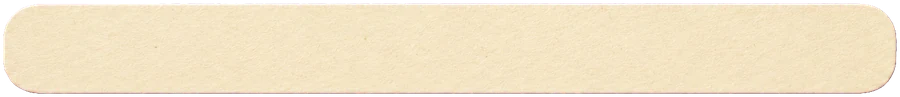
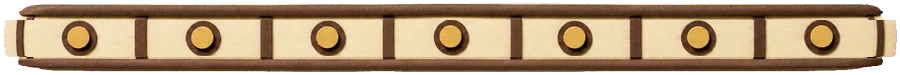
완두콩 공주: 안내 음성 중에도 바로 눌리게(T.ask), 매트리스를 테두리·누빔·단추가 있는 그림으로
- 엔진 T.ask(안내, 조작): 대상을 먼저 열고 안내를 읽는다. 예전 say→tap 은 안내 동안(busy)과 뒤 쉼 0.7초 동안 누름을 버렸다. 안내 도중 누르면 안내를 멈춘다. 자동 재생·검증은 예전 순서. 세로에서 카메라가 화자로 가지 않게 연출 없이 읽는다
- 엔진: 말풍선 pointer-events none, 손가락 위치를 data-hand 조각으로 고를 수 있게
- 완두콩 공주: 톡 대상이 아닌 배우·효과 층은 누름을 받지 않음(세로 5장 왕비가 침대 구역을 덮던 것), 5장 들썩이는 더미도 톡 자리, 4장 세로 누르는 자리 짧은 변 90px
- 매트리스 3장 다시 생성(갈색 테두리 띠·누빔선·둥근 단추), 민짜 몸통 줄만 빼서 12:1 로 맞춤(단추가 눌리지 않게)

Claude-Session: https://claude.ai/code/session_015D7fGjm4nVvpfW8sbSdtTy

diff --git a/tales/princess_pea/princess_pea.js b/tales/princess_pea/princess_pea.js
@@ -16,7 +16,9 @@
     pp_prop_pea: 1.0, pp_prop_pillow: 2.0, pp_prop_ladder: .20, pp_prop_boat: 1.1, pp_prop_far_lands: 9.0, pp_prop_cloud: 2.0, pp_prop_lightning: .35,
     pp_prop_door_closed: .55, pp_prop_door_open: 1.4, pp_prop_case: .5,
   };
-  /* 상자를 폭·높이 둘 다 고정(preload 로 덮어쓰지 않음) */
+  /* 상자를 폭·높이 둘 다 고정(preload 로 덮어쓰지 않음).
+     매트리스(2026-10-22 다시 그림): 갈색 테두리 띠·누빔선·둥근 단추가 있는 옆모습. 받은 그림은 5.8:1 이라 240×20 에 넣으면 단추가 반으로 눌린다 →
+     민짜 몸통 줄만 빼서 12:1(900×75)로 만든 webp 를 쓴다(단추·테두리 띠는 그대로, 원본 png 는 assets/raw/_work/pp_mattress_try1) */
   const FIXED_ASP = { pp_prop_mattress_gold: 12, pp_prop_mattress_cream: 12, pp_prop_mattress_persimmon: 12, pp_prop_duvet: 12.2, pp_prop_bed_board: 8.7 };
   /* 높이 — 같은 부위(얼굴 폭) 크기가 같아지도록 정한 값. 그림이 오면 얼굴 폭을 재서 고친다(SPEC §2-2) */
   const HT = {
@@ -163,6 +165,7 @@
       });
     });
     a.want = 'left';
+    a.pos.style.pointerEvents = 'none';   // 톡 대상이 아닌 배우·소품이 대상 위를 덮어 누름을 가로채지 않게(2026-10-22). 대상은 hitBox/tapable 로 연다
     const place0 = a.place;      // 자리표시의 글자는 뒤집히지 않게 거꾸로 되돌린다
     a.place = (nx, ny) => { place0(nx, ny); a.pos.querySelectorAll('.phl').forEach(t => t.setAttribute('transform', `translate(${t.dataset.cx},${t.dataset.cy}) scale(${a.flip},1)`)); };
     a.turn = d => { a.want = d; const n = looks[a.cur].nat; a.face(n === 'front' || n === d ? 'left' : 'right'); };
@@ -191,7 +194,7 @@
   /* 누르는 자리 넓히기: 그림 뒤에 투명 사각을 깔고 a.hit = a.pos */
   function hitBox(T, a, w = 100, h = 100) {
     const r = T.el('rect', { x: -w / 2, y: -h, width: w, height: h, fill: '#000', 'fill-opacity': 0 }, a.pos);
-    a.pos.insertBefore(r, a.body); a.hit = a.pos; return a;
+    a.pos.insertBefore(r, a.body); a.hit = a.pos; a.pos.style.pointerEvents = 'auto'; return a;
   }
 
   /* ---- 세트 묶음 rig (탑 꼭대기를 볼 때 위로 보이게 아래로 내린다) ---- */
@@ -232,6 +235,7 @@
     const say = async text => { await T.say(text); await sleep(GAP); };
     const vo = k => { const u = Narrator.voiceLine(k); return u && AudioFX.voice(u); };   // 말풍선 없는 소리(수 세기 n1~n20)
     const scene = key => { T.clear(); bgImage(T, key); newRig(T); camSnap(500, 280, 1); };
+    if (T.fx) T.fx.style.pointerEvents = 'none';  // 빗줄기·꽃잎·'뚝뚝' 같은 효과 조각이 톡 대상을 덮지 않게
     const P = T.viewWidth() < 990;                 // 세로 화면(보이는 폭 약 260)
     const X = (l, p) => (P ? p : l);
     const follow = (x, ms = 700) => (P ? T.camTo(x, 280, 1, ms) : Promise.resolve());
@@ -263,7 +267,7 @@
     const doorC = prop(T, 'pp_prop_door_closed', HT.pp_prop_door_closed), doorO = prop(T, 'pp_prop_door_open', HT.pp_prop_door_open), kase = prop(T, 'pp_prop_case', HT.pp_prop_case);
     const ALL = [pea, prince, queen, king, ...mats, ...pile, ...duvs, peaB, peaC, peaM, matC, pillow, board, ladder, boat, lands, cloudA, cloudB, bolt, doorC, doorO, kase];
     ALL.forEach(hide);
-    hitBox(T, boat, 100, 100); hitBox(T, peaC, 100, 100); hitBox(T, pillow, 100, 70); hitBox(T, matC, 250, 80); hitBox(T, kase, 100, 150);
+    hitBox(T, boat, 100, 100); hitBox(T, peaC, 100, 100); hitBox(T, pillow, 100, 100); hitBox(T, matC, 250, 100); hitBox(T, kase, 100, 150);
     T.director({ cast: { pea, prince, queen, king }, noFace: ['pea', 'prince', 'queen', 'king'] });
 
     /* 탑 한 채를 rig 안에 세운다(6·7·8장) */
@@ -286,8 +290,7 @@
     if (P) camSnap(770, 280, 1);
     await T.curtain(true);
     await say('옛날에 진짜 공주와 결혼하고 싶은 왕자가 있었어요.');
-    await say('배를 톡 눌러 봐요.');
-    await T.tap(boat.hit, { prompt: '배를 톡 눌러 봐요.' });
+    await T.ask('배를 톡 눌러 봐요.', () => T.tap(boat.hit, { prompt: '배를 톡 눌러 봐요.' }));
     sfx(T, 'swish', .35); T.pop(754, 200, tr('출렁출렁'));
     {
       const t = boat.move(900, 300, SAIL, 'linear');
@@ -345,9 +348,9 @@
       if (P) camSnap(630, 280, 1);
     }, doorC.pos);
     T.pop(pea.x - 85, FL - 40, tr('뚝뚝'), '#1F2A56');
-    await say('성문을 톡 눌러 봐요.');
-    bob(doorC.pos);
-    await T.tap(doorC.pos, { prompt: '성문을 톡 눌러 봐요.' });
+    bob(doorC.pos); doorC.pos.style.pointerEvents = 'auto';
+    await T.ask('성문을 톡 눌러 봐요.', () => T.tap(doorC.pos, { prompt: '성문을 톡 눌러 봐요.' }));
+    doorC.pos.style.pointerEvents = 'none';
     sfx(T, 'creak', .5); T.pop(700, 150, tr('끼익'));
     fadeOut(T, doorC, 300); fadeIn(doorO, 300);
     fadeIn(queen, 400); fadeIn(king, 400); glow(king, 1200);
@@ -366,26 +369,24 @@
       scene('pp_bg_guest_day');
       put(T, board, X(820, 760), FL); inRig(board);
       put(T, queen, X(690, 620), FL, { look: 'place', to: 'right' });
-      if (P) { put(T, peaC, 500, 350); put(T, pillow, 500, 420); put(T, matC, 500, FL); }
+      if (P) { put(T, peaC, 500, 300); put(T, pillow, 500, 400); put(T, matC, 500, FL); }   // 세로: 누르는 자리 100씩(화면 90px) 겹치지 않게
       else { put(T, matC, 180, FL); put(T, pillow, 360, FL); put(T, peaC, 470, FL); }
       if (P) camSnap(500, 280, 1);
     }, peaC.pos);
     await say('왕비님은 손님방에 완두콩 한 알, 베개, 매트리스 한 장을 가져왔어요.');
-    await say('셋 중에서 제일 작은 것은 뭘까요? 눌러 봐요.');
-    await T.choose([
+    await T.ask('셋 중에서 제일 작은 것은 뭘까요? 눌러 봐요.', () => T.choose([
       { el: peaC.hit, ok: true },
       { el: pillow.hit, ok: false, onWrong: wrongSay(pillow, '그건 베개예요. 더 작은 걸 찾아봐요.') },
       { el: matC.hit, ok: false, onWrong: wrongSay(matC, '그건 매트리스예요. 더 작은 걸 찾아봐요.') },
-    ], { prompt: '셋 중에서 제일 작은 것은 뭘까요? 눌러 봐요.' });
+    ], { prompt: '셋 중에서 제일 작은 것은 뭘까요? 눌러 봐요.' }));
     reward(peaC); T.pop(peaC.x, peaC.y - 70, tr('반짝!'));
     await say('맞아요, 완두콩이 제일 작아요!');
     await sleep(1400);
-    await say('그럼 제일 큰 것은 뭘까요? 눌러 봐요.');
-    await T.choose([
+    await T.ask('그럼 제일 큰 것은 뭘까요? 눌러 봐요.', () => T.choose([
       { el: matC.hit, ok: true },
       { el: peaC.hit, ok: false, onWrong: wrongSay(peaC, '그건 완두콩이에요. 더 큰 걸 찾아봐요.') },
       { el: pillow.hit, ok: false, onWrong: wrongSay(pillow, '그건 베개예요. 더 큰 걸 찾아봐요.') },
-    ], { prompt: '그럼 제일 큰 것은 뭘까요? 눌러 봐요.' });
+    ], { prompt: '그럼 제일 큰 것은 뭘까요? 눌러 봐요.' }));
     reward(matC, 1200, 10); T.pop(matC.x, matC.y - 60, tr('반짝!'));
     await say('맞아요, 매트리스가 제일 커요!');
     follow(X(700, 700));
@@ -412,12 +413,14 @@
       put(T, peaB, TX - 60, BOARD_TOP + 4); inRig(peaB);
       pile.forEach((p, k) => put(T, p, PILE_X, FL - k * MAT_H));
       put(T, queen, X(350, 400), FL, { look: 'lift' });
-      bedHit = T.el('rect', { x: TX - 125, y: BOARD_TOP - 230, width: 250, height: 260, fill: '#000', 'fill-opacity': 0 }, rig);
+      bedHit = T.el('g', {}, rig);
+      const bedR = T.el('rect', { x: TX - 125, y: BOARD_TOP - 230, width: 250, height: 260, fill: '#000', 'fill-opacity': 0 }, bedHit);
+      const pileR = T.el('rect', { x: PILE_X - 130, y: FL - 5 * MAT_H - 60, width: 260, height: 5 * MAT_H + 60, fill: '#000', 'fill-opacity': 0 }, bedHit);   // 들썩이는 더미(5장) 자리
+      (P ? bedR : pileR).dataset.hand = '1';
       if (P) camSnap(TX, 280, 1);
     }, board.pos);
-    await say('완두콩 위에 매트리스를 쌓아 볼까? 몇 장일까요? 톡 눌러 봐요.');
     bob(pile[4].pos);
-    await T.tap(bedHit, { prompt: '완두콩 위에 매트리스를 쌓아 볼까? 몇 장일까요? 톡 눌러 봐요.' });
+    await T.ask('완두콩 위에 매트리스를 쌓아 볼까? 몇 장일까요? 톡 눌러 봐요.', () => T.tap(bedHit, { prompt: '완두콩 위에 매트리스를 쌓아 볼까? 몇 장일까요? 톡 눌러 봐요.' }));
     const stack = async (from, to, gap) => {
       for (let i = from; i < to; i++) {
         const m = mats[i];
@@ -430,9 +433,8 @@
       }
     };
     await stack(0, 10, COUNT_A);
-    await say('열! 아직 더 있어요. 한 번 더 톡!');
     bob(pile[4].pos);
-    await T.tap(bedHit, { prompt: '열! 아직 더 있어요. 한 번 더 톡!' });
+    await T.ask('열! 아직 더 있어요. 한 번 더 톡!', () => T.tap(bedHit, { prompt: '열! 아직 더 있어요. 한 번 더 톡!' }));
     await stack(10, 20, COUNT_B);
     await sleep(400);
     await say('스물! 매트리스가 스무 장이에요.');
@@ -460,18 +462,16 @@
     const showZones = () => [zTop, zBot].forEach(z => { z.animate([{ opacity: 0 }, { opacity: .22 }], { duration: 400, fill: 'forwards' }); });
     const hideZones = async () => { await Promise.all([zTop, zBot].map(z => T.anim(z, [{ opacity: .22 }, { opacity: 0 }], 300))); };
     showZones();
-    await say('완두콩은 어디 있을까요? 탑의 위? 아래?');
-    await T.choose([
+    await T.ask('완두콩은 어디 있을까요? 탑의 위? 아래?', () => T.choose([
       { el: zBot, ok: true },
       { el: zTop, ok: false, onWrong: async () => { await wiggleEl(T, zTop); await say('거긴 탑의 위예요. 완두콩은 맨 아래에 있어요. 아래를 눌러 봐요.'); } },
-    ], { prompt: '완두콩은 어디 있을까요? 탑의 위? 아래?' });
+    ], { prompt: '완두콩은 어디 있을까요? 탑의 위? 아래?' }));
     glow(peaB, 1500); peaB.hop(10, 360); sparkleSfx(T); T.pop(TX, 420, tr('반짝!'));
     await say('맞아요! 완두콩은 맨 아래에 있어요.'); await sleep(1200);
-    await say('공주님은 어디서 잘까요? 위? 아래?');
-    await T.choose([
+    await T.ask('공주님은 어디서 잘까요? 위? 아래?', () => T.choose([
       { el: zTop, ok: true },
       { el: zBot, ok: false, onWrong: async () => { await wiggleEl(T, zBot); await say('거긴 탑의 아래예요. 공주님은 맨 위에서 자요. 위를 눌러 봐요.'); } },
-    ], { prompt: '공주님은 어디서 잘까요? 위? 아래?' });
+    ], { prompt: '공주님은 어디서 잘까요? 위? 아래?' }));
     zTop.style.filter = 'url(#hintGlow)'; setTimeout(() => { zTop.style.filter = ''; }, 1200); sparkleSfx(T); T.pop(TX, 110, tr('반짝!'));
     await say('맞아요! 공주님은 맨 위에서 자요.');
     await hideZones(); zTop.remove(); zBot.remove();
@@ -552,9 +552,8 @@
     await say('진짜 공주님을 드디어 찾았어요!');
     petals(T);
     await say('완두콩은 박물관에 갔대요.');
-    await say('유리 상자를 톡 눌러 봐요.');
     bob(kase.pos);
-    await T.tap(kase.hit, { prompt: '유리 상자를 톡 눌러 봐요.' });
+    await T.ask('유리 상자를 톡 눌러 봐요.', () => T.tap(kase.hit, { prompt: '유리 상자를 톡 눌러 봐요.' }));
     glow(peaM, 1500); peaM.hop(10, 360); sparkleSfx(T); T.pop(kase.x, kase.y - 190, tr('반짝!'));
     pea.look('wave'); prince.look('joy'); pea.hop(12, 360); prince.hop(12, 360);
     T.confetti(); sfx(T, 'tada', undefined, () => sparkleSfx(T));

diff --git a/engine/tale.js b/engine/tale.js
@@ -136,6 +136,21 @@ const Tale = (() => {
     finally { if (d) d.end(); busy = was; }
   }
 
+  /* ---------- 안내 대사 + 조작 함께 (2026-10-22) ----------
+     T.ask(안내, () => T.tap(...)) — 대상을 먼저 '눌릴 수 있는 상태'로 연 뒤 안내 대사를 흘린다.
+     say 뒤에 tap 을 부르면 대사 동안(busy)과 대사 뒤 쉼 동안 누름이 버려진다(아이는 '톡 눌러 봐요'를 듣는 순간 누른다).
+     안내 도중 누르면 안내는 거기서 멈추고 바로 다음으로 간다. 자동 재생·검증 모드는 예전처럼 대사 → 조작 순서.
+     연출(director)은 쓰지 않는다: 세로 화면에서 말하는 배역 쪽으로 카메라가 가면 누르려던 대상이 화면에서 미끄러진다 */
+  async function ask(text, start) {
+    if (VERIFY || AUTO()) { await say(text); return start(); }
+    const r = start();                       // input() 이 busy=false 로 연다 — say 를 쓰면 busy 가 다시 잠긴다
+    let spoken = false;
+    Narrator.speak(text).catch(() => { /* 소리 실패는 무시 */ }).finally(() => { spoken = true; });
+    const v = await r;
+    if (!spoken) Narrator.stop();
+    return v;
+  }
+
   /* ---------- 개발자 검증 모드 (?verify=1, tools/dev/verify.html 의 iframe 에서만) ----------
      행동 단위(대사 한 줄, 톡 기다림)마다 부모에게 step 을 알리고 부모의 go 를 기다린다.
      ?skip=N 이면 앞의 N 단계는 소리 없이 곧바로 지나간다(이전 버튼용). 평소 게임에는 영향이 없다. */
@@ -336,7 +351,8 @@ const Tale = (() => {
     return [r.left - s.left + r.width / 2, r.top - s.top + r.height / 2];
   }
   function showHand(target, kind = 'tap') {
-    const [x, y] = screenPoint(target);
+    const at = target.querySelector && target.querySelector('[data-hand]');   // 대상이 여러 조각이면 손가락을 놓을 조각을 data-hand 로 고를 수 있다
+    const [x, y] = screenPoint(at || target);
     handEl.className = kind; handEl.style.left = x + 'px'; handEl.style.top = y + 'px'; handEl.hidden = false;
   }
   function hideHand() { handEl.hidden = true; }
@@ -1227,7 +1243,7 @@ const Tale = (() => {
 
   const api = {
     finale, hz, semi, parseSong, timbre, playMelody, followMelody, holdMelody, lyric,
-    cardSpeed: k => { cardK = k; }, el, paper, anim, actor, sleep, say, director, tone, josa, tr, camTo, camSnap, camWide, curtain, sceneCard, cut, cutImage, preload, shake, confetti, pop, clear,
+    cardSpeed: k => { cardK = k; }, el, paper, anim, actor, sleep, say, ask, director, tone, josa, tr, camTo, camSnap, camWide, curtain, sceneCard, cut, cutImage, preload, shake, confetti, pop, clear,
     get camera() { return { ...camState }; },
     viewWidth,
     tap: autoInput('tap', tap), mash: autoInput('mash', mash), choose: autoInput('choose', choose), swipe: autoInput('swipe', swipe), hold: autoInput('hold', hold), free: autoInput('free', free),

diff --git a/engine/tale.css b/engine/tale.css
@@ -145,6 +145,7 @@ svg text { font-weight: 800; }
     2px 5px 8px rgba(20, 26, 46, .18),
     6px 14px 26px rgba(20, 26, 46, .18);
   z-index: 40; animation: bubblePop .28s cubic-bezier(.3, 1.5, .5, 1);
+  pointer-events: none; /* 말풍선은 누르는 것이 아니다 — 위쪽 톡 대상(탑 꼭대기 등)을 덮지 않게 */
 }
 #bubble p { margin: 0; font-size: 1em; font-weight: 650; line-height: 1.45; text-align: center; text-wrap: balance; }
 @keyframes bubblePop { from { transform: translateX(-50%) translateY(-6px) scale(.9); opacity: 0; } }

diff --git a/tales/princess_pea/SPEC.md b/tales/princess_pea/SPEC.md
@@ -129,7 +129,7 @@ T.director({ cast: { pea, prince, queen, king }, noFace: ['pea', 'prince', 'quee
 | `pp_queen_*` | 동그라미 머리 + 팥색 둥근 몸(조금 넓고 낮음) + 흰 머리 반원 + 머리 위 작은 흰 원(틀어 올림) + 안경(얇은 원 2). `wink` 는 한쪽 눈 호선, `place` 는 몸을 15° 기울임, `lift` 는 팔 선 둘 위로, `hug` 는 팔 선 둘 양옆으로 | 몸 `#A93B32`, 머리 `#F4F6FA` |
 | `pp_king_lantern` | 동그라미 머리 + 갈색 직사각 몸 + 흰 수염 반원 + 금색 관 + 손 옆 앰버 사각(등불) | 몸 `#6B4A32`, 등불 `#F2B366` |
 | `pp_prop_pea` | 초록 원 + 왼쪽 위 작은 연초록 원 | `#3F6B4F`, `#5c8b6a`. **얼굴 없음** |
-| `pp_prop_mattress_*` / `pp_prop_duvet` | 둥근 가로 직사각(상자 전체) / 흰 가로 직사각 + 아래 물결 | 금 `#D9A94E` · 크림 `#F6ECD8` · 감 `#E8703A` / `#F4F6FA` |
+| `pp_prop_mattress_*` / `pp_prop_duvet` | 둥근 가로 직사각 + 위·아래 갈색 테두리 띠 + 누빔선 6 + 둥근 단추 7(상자 전체) / 흰 가로 직사각 + 아래 물결 | 금 `#D9A94E` · 크림 `#F6ECD8` · 감 `#E8703A` / `#F4F6FA` |
 | `pp_prop_pillow` / `pp_prop_bed_board` / `pp_prop_ladder` | 크림 둥근 직사각 + 초록 띠 / 갈색 판 + 다리 2 + 왼쪽 머리판 / 세로 선 2 + 가로 선 7 | `#F6ECD8` / `#6B4A32` / `#6B4A32` |
 | `pp_prop_boat` / `pp_prop_far_lands` / `pp_prop_cloud` / `pp_prop_lightning` | 갈색 호 + 크림 삼각 돛 / 연보라 성 실루엣 2 + 작은 세로 타원 3 / 남색 둥근 구름 / 앰버 지그재그 선 | 팔레트 토큰. **얼굴 없음** |
 | `pp_prop_door_closed` / `pp_prop_door_open` / `pp_prop_case` | 갈색 아치 + 가운데 세로선 / 양 끝 좁은 갈색 판 둘(가운데 비움) / 갈색 받침 + 연회색 테두리 사각(속 비움) | `#6B4A32` / `#DCE3EA` |
@@ -149,7 +149,7 @@ pp_prop_pea 1.0, pp_prop_pillow 2.0, pp_prop_ladder .20, pp_prop_boat 1.1, pp_pr
 pp_prop_door_closed .55, pp_prop_door_open 1.4, pp_prop_case .5
 고정(FIXED_ASP, preload 로 덮어쓰지 않음): pp_prop_mattress_gold 12, pp_prop_mattress_cream 12, pp_prop_mattress_persimmon 12, pp_prop_duvet 12.2, pp_prop_bed_board 8.7
 ```
-고정 ASP 는 상자를 **폭·높이 둘 다** 정하기 위한 것이다(`sprite()` 가 `preserveAspectRatio: 'none'` 이라 그림이 상자에 맞춰진다). 매트리스는 프롬프트에서 10:1 로 그리게 했으므로 12:1 상자에 넣어도 눌림이 거의 없다. 받은 그림의 실제 비율이 8 보다 작으면(너무 두꺼움) 그 매트리스만 다시 생성한다.
+고정 ASP 는 상자를 **폭·높이 둘 다** 정하기 위한 것이다(`sprite()` 가 `preserveAspectRatio: 'none'` 이라 그림이 상자에 맞춰진다). 2026-10-22: 민짜 띠로는 매트리스로 안 읽힌다는 지적 → 갈색 테두리 띠·누빔선·둥근 단추를 넣어 다시 그렸다. 받은 그림이 5.8:1 이라 12:1 상자에 넣으면 단추가 반으로 눌리므로, 민짜 몸통 줄(위아래 줄과 같은 줄)만 빼서 900×75(12:1)로 만든 webp 를 쓴다(단추는 둥글게, 테두리 띠는 14줄 이상 남김). 원본은 assets/raw/_work/pp_mattress_try1.
 
 ### 2-2. 높이(HT) — 같은 인물·소품은 자세가 달라도 같은 크기 (CLAUDE.md §4-1)
 무대 1000×560, 바닥 `FL = 505`. 높이는 그림 상자가 아니라 **같은 부위의 크기**가 같아지도록 정한다.
@@ -214,6 +214,7 @@ pp_prop_door_closed .55, pp_prop_door_open 1.4, pp_prop_case .5
 ### 2-6. 누르는 자리 크기
 - 톡·고르기 대상은 화면에서 **짧은 변 60 무대 px 이상**. 작은 것(배 44, 비교 완두콩 22)은 `hitBox()`(§5-4)로 투명 사각을 뒤에 깔아 100×100 으로 넓힌다. 문(165×300)·유리 상자(75×150 → hitBox 100×150)·침대 구역(250×250)·위아래 띠(250×190, 250×175)는 그대로 충분하다. `T.tap`/`T.choose` 에는 그 `hit` 그룹(`a.pos` 또는 구역 rect)을 넘긴다.
 - 톡 대상은 기다리는 동안 살짝 들썩인다: `a.pos.animate([{translate:'0 0'},{translate:'0 -5px'},{translate:'0 0'}], {duration: 900, iterations: 3})`. 침대 구역(5장)은 대신 맨 위 매트리스(더미 꼭대기)가 들썩인다.
+- 조작 안내(2026-10-22): 안내 대사는 `T.ask(안내, () => T.tap/choose(...))` 로 부른다 — 대상을 먼저 눌릴 수 있게 연 뒤 안내를 읽는다(예전 `say` → `tap` 은 대사 동안과 대사 뒤 쉼 0.7초 동안 누름이 버려졌다). 안내 도중 누르면 안내는 멈추고 바로 다음으로. 톡 대상이 아닌 배우·소품과 효과 층(T.fx)은 `pointer-events: none`, 말풍선도 누름을 받지 않는다. 5장 톡 자리는 침대 구역 + 들썩이는 더미 둘 다(손가락은 가로=더미, 세로=침대).
 
 ### 2-7. 속도 (한 편 7분 이상이 목표)
 - `say()` 뒤 `GAP = 700`ms. 장면 끝(다음 `sceneCard` 전) `sleep(SCENE_END = 1500)`.
@@ -242,7 +243,7 @@ pp_prop_door_closed .55, pp_prop_door_open 1.4, pp_prop_case .5
 - 톡 뒤: `AudioFX.sfx('creak', .5)` + `T.pop(700, 150, tr('끼익'))` → `fadeOut(T, doorC, 300)` 와 동시에 `doorO.pos.style.display = ''` + `fadeIn(T, doorO, 300)`, 왕·왕비 `fadeIn` 400ms(왕이 앞) + `glow(king, 1200)`(등불 빛) → **L8**(왕) → 공주 `hop(10, 320)` → **L9**(공주) → 왕비 `wiggle(3, 400)` → **L10**(왕비) → `queen.look('wink')` + `T.pop(queen.x + 70, FL - 250, tr('찡긋'))`(왕비 머리 오른쪽 위; 왕은 왼쪽) → **L11**(왕비) → 빗줄기 `fadeOut` 600ms → `sleep(SCENE_END)`.
 
 ### 장면 4. 왕비의 완두콩 (배움 놀이 1: 제일 작은 것 · 제일 큰 것)
-- `sceneCard(tr('왕비의 완두콩'))`, 배경 `pp_bg_guest_day`. 침대 판자 `board` `put(T, board, X(820, 760), FL)` → `inRig(board)`(이 장면은 rig 0 고정). 왕비 `place` `put(T, queen, X(690, 620), FL)`(NAT right, 침대를 향해 굽힘). 비교 보기 셋 — **가로**: 매트리스 `matC` `put(T, matC, 180, FL)`, 베개 `pillow` `put(T, pillow, 360, FL)`, 완두콩 `peaC` `put(T, peaC, 470, FL)`; **세로**(x 500 세로 한 줄, 벽에 붙여 보여 주는 진열): `peaC` (500, 350), `pillow` (500, 420), `matC` (500, FL). 각각 `hitBox(T, a, 100, 100)`(매트리스는 `hitBox(T, matC, 250, 80)`). P: `camSnap(500)`. focus: `peaC`.
+- `sceneCard(tr('왕비의 완두콩'))`, 배경 `pp_bg_guest_day`. 침대 판자 `board` `put(T, board, X(820, 760), FL)` → `inRig(board)`(이 장면은 rig 0 고정). 왕비 `place` `put(T, queen, X(690, 620), FL)`(NAT right, 침대를 향해 굽힘). 비교 보기 셋 — **가로**: 매트리스 `matC` `put(T, matC, 180, FL)`, 베개 `pillow` `put(T, pillow, 360, FL)`, 완두콩 `peaC` `put(T, peaC, 470, FL)`; **세로**(x 500 세로 한 줄, 벽에 붙여 보여 주는 진열): `peaC` (500, 300), `pillow` (500, 400), `matC` (500, FL). 각각 `hitBox(T, a, 100, 100)`(매트리스는 `hitBox(T, matC, 250, 100)`) — 세로 화면에서도 짧은 변 90px. P: `camSnap(500)`. focus: `peaC`.
 - **L12** → **L13**(안내) → `await T.choose([ { el: peaC.hit, ok: true }, { el: pillow.hit, ok: false, onWrong: async () => { await pillow.wiggle(8, 360); await say(W13a); } }, { el: matC.hit, ok: false, onWrong: async () => { await matC.wiggle(8, 360); await say(W13b); } } ], { prompt: '셋 중에서 제일 작은 것은 뭘까요? 눌러 봐요.' })` — `W13a`·`W13b` 는 §6 과 글자 하나까지 같다. 2회 오답부터 정답이 빛나고 나머지는 흐려진다(엔진).
 - 정답: `AudioFX.ding()`(엔진) → `glow(peaC, 1200)` + `peaC.hop(14, 400)` + `sparkleSfx(T)` + `T.pop(peaC.x, peaC.y - 70, tr('반짝!'))` → **C13** → `sleep(400)`.
 - **L14**(안내) → `await T.choose([ { el: matC.hit, ok: true }, { el: peaC.hit, ok: false, onWrong: … say(W14a) }, { el: pillow.hit, ok: false, onWrong: … say(W14b) } ], { prompt: '그럼 제일 큰 것은 뭘까요? 눌러 봐요.' })` → 정답: `glow(matC, 1200)` + `matC.hop(10, 400)` + `sparkleSfx(T)` + `T.pop(matC.x, matC.y - 60, tr('반짝!'))` → **C14**.
@@ -443,7 +444,7 @@ pp_prop_door_closed .55, pp_prop_door_open 1.4, pp_prop_case .5
 | | queen_wink / place(→, 허리 굽혀 빈 손끝) / lift(두 팔 위, 빈손) / hug(두 팔 벌림) | refs queen_smile | 600² | 3 | 3·4 / 4 / 5 / 8 |
 | 인물·왕 | king_lantern | 흰 수염, 갈색 가운, 등불(얼굴 없음) 든 앞모습. refs 공주 서기 | 600² | 2 | 3 |
 | 소품 | prop_pea | 초록 원 2조각, 얼굴 없음 | 480² | 1 | 4~9 |
-| | prop_mattress_gold(기준) / cream / persimmon | 옆에서 본 아주 길고 얇은 직사각(10:1), 1조각 1색 | 1600×902 | 1 / 2 / 2 | 4~8 |
+| | prop_mattress_gold(기준) / cream / persimmon | 옆에서 본 길고 얇은 매트리스: 몸통 1색 + 갈색 테두리 띠·누빔선 + 둥근 단추(12:1 로 줄여 씀) | 1600×902 | 1 / 2 / 2 | 4~8 |
 | | prop_duvet / prop_pillow / prop_bed_board / prop_ladder | 흰 물결 이불(12:1) / 크림 베개+초록 띠 / 갈색 판·다리·머리판(8:1) / 세로 2+가로 7(1:5) | 1600×902 / 480² / 1600×902 / 480×600 | 1 | 5~8 / 4 / 4~8 / 6~8 |
 | | prop_boat(→) / prop_far_lands / prop_cloud / prop_lightning | 돛 하나 배 / 먼 성 2+공주 실루엣 3(얼굴 없음, 9:1) / 남색 구름 / 앰버 지그재그 | 480² / 1600×902 / 840×480 / 480×600 | 1 | 1 / 1 / 2·3 / 2 |
 | | prop_door_closed(기준) / prop_door_open | 닫힌 아치 문 / 양쪽으로 젖혀진 문짝 둘(가운데 비움) | 480×600 | 1 / 2 | 2·3 / 3 |
